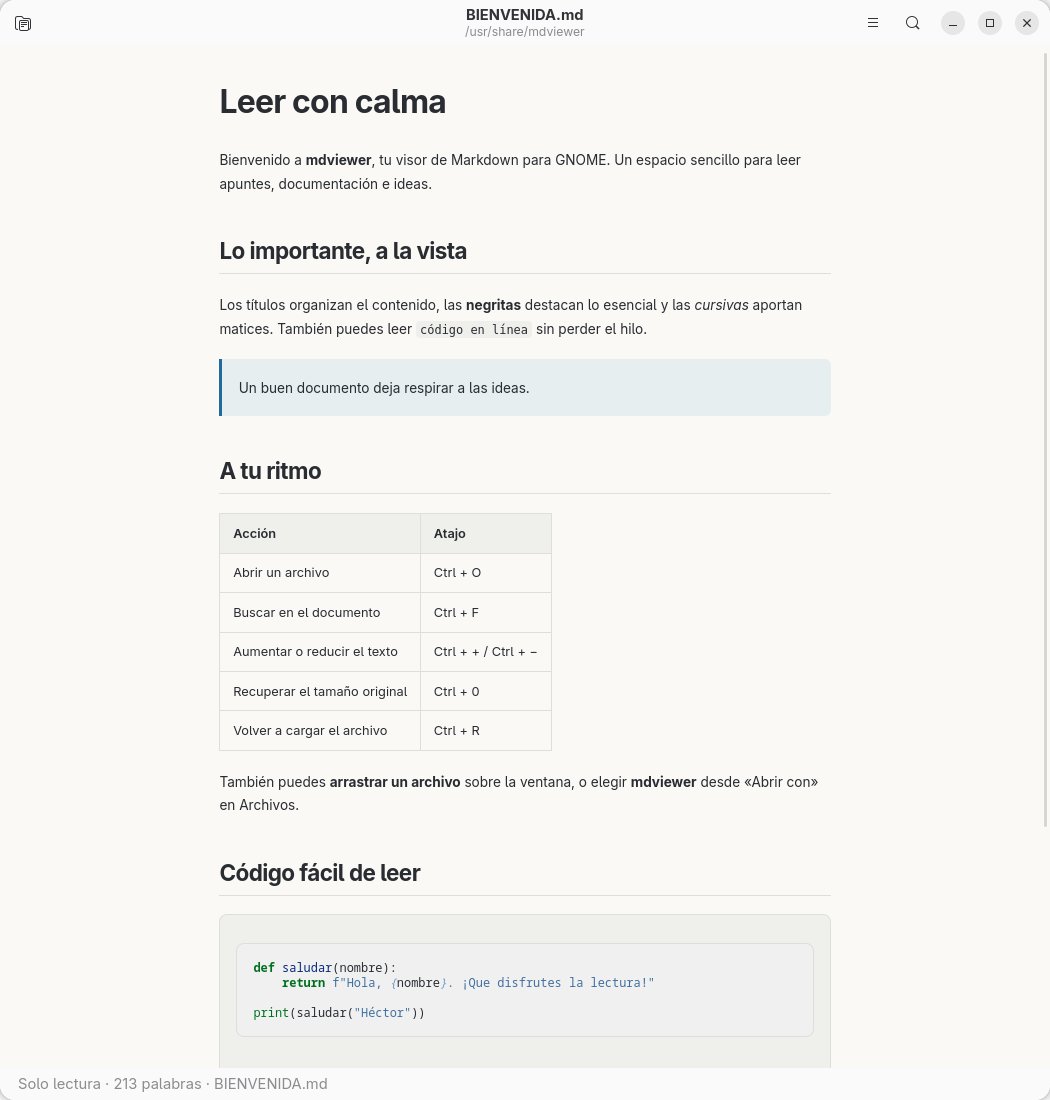
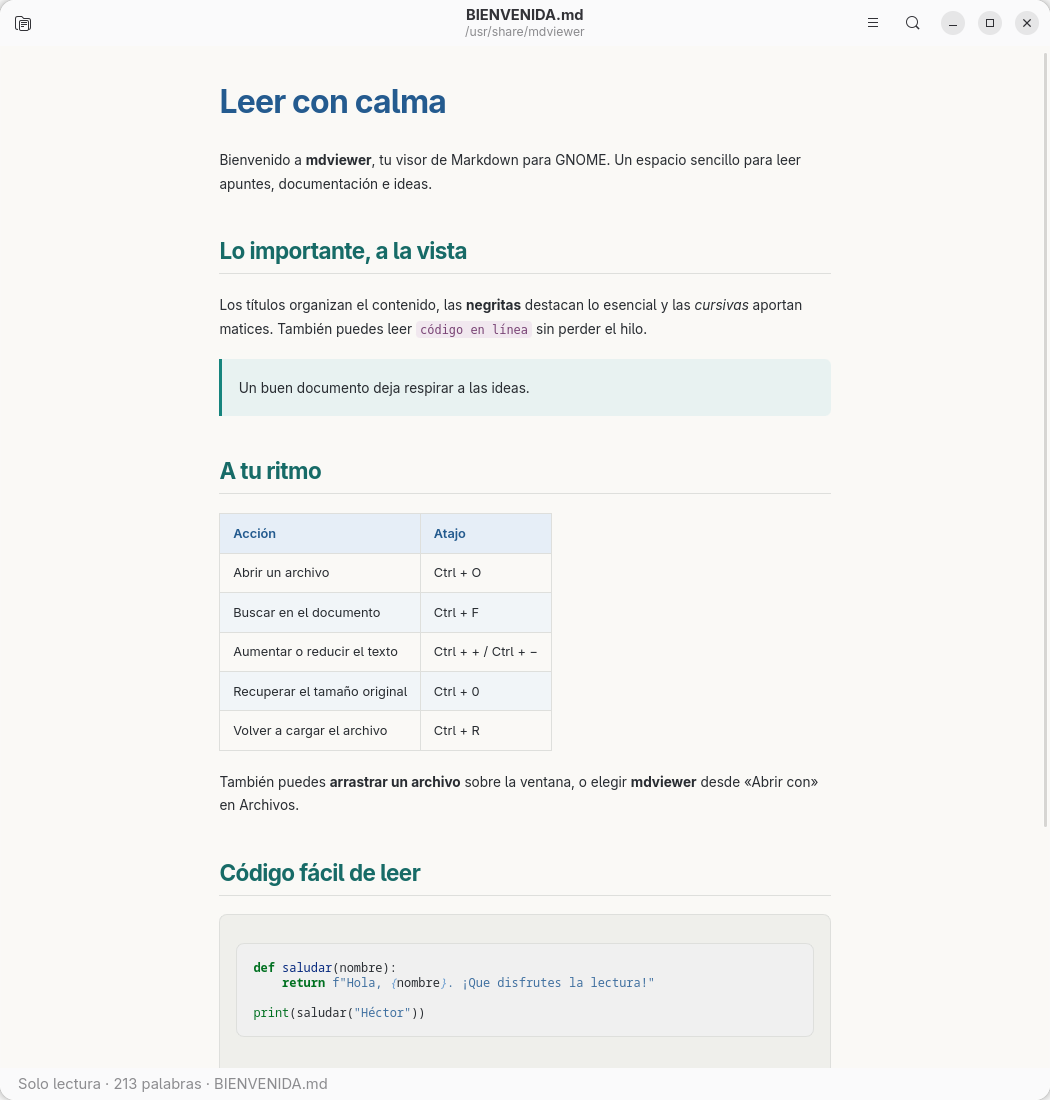
Añadir una paleta de color para los temas claro y oscuro en 0.1.2

diff --git a/style.css b/style.css
@@ -1,27 +1,29 @@
-:root { color-scheme: light; --bg: #faf9f6; --fg: #292d32; --muted: #626a73; --line: #dedfdc; --panel: #efefeb; --link: #206b9b; --quote: #e6eef0; }
-:root.dark { color-scheme: dark; --bg: #202326; --fg: #e5e6e1; --muted: #a9b0b6; --line: #43484d; --panel: #2b3035; --link: #87c5ed; --quote: #283940; }
+:root { color-scheme: light; --bg: #faf9f6; --fg: #292d32; --muted: #626a73; --line: #dedfdc; --panel: #efefeb; --link: #206b9b; --quote: #e8f2f1; --title: #245b8f; --heading: #176b67; --accent: #16847d; --code: #794475; --code-bg: #f1e8ef; --table-head: #e6eef7; --table-stripe: #f1f5f8; }
+:root.dark { color-scheme: dark; --bg: #202326; --fg: #e5e6e1; --muted: #a9b0b6; --line: #43484d; --panel: #2b3035; --link: #87c5ed; --quote: #253837; --title: #91c4f2; --heading: #83cec4; --accent: #64bdb3; --code: #ddb0d5; --code-bg: #3b2e3c; --table-head: #293b4e; --table-stripe: #262d34; }
 * { box-sizing: border-box; }
 html { background: var(--bg); color: var(--fg); }
 body { margin: 0; font: 17px/1.75 "Adwaita Sans", "Cantarell", sans-serif; overflow-wrap: anywhere; }
 main { max-width: 860px; margin: 0 auto; padding: 44px 48px 90px; }
 h1, h2, h3, h4, h5, h6 { line-height: 1.3; font-weight: 700; letter-spacing: -.025em; scroll-margin-top: 24px; }
-h1 { font-size: 2.35em; margin: 0 0 .8em; }
-h2 { font-size: 1.65em; margin-top: 1.8em; border-bottom: 1px solid var(--line); padding-bottom: .35em; }
+h1 { color: var(--title); font-size: 2.35em; margin: 0 0 .8em; }
+h2 { color: var(--heading); font-size: 1.65em; margin-top: 1.8em; border-bottom: 1px solid var(--line); padding-bottom: .35em; }
+h3, h4, h5, h6 { color: var(--heading); }
 h3 { font-size: 1.25em; margin-top: 1.6em; }
 p, ul, ol { margin: 1em 0; }
 li { padding-left: .2em; }
 li + li { margin-top: .3em; }
 a { color: var(--link); text-decoration-thickness: 1px; text-underline-offset: 3px; }
-blockquote { margin: 1.4em 0; padding: .2em 1.2em; border-left: 4px solid var(--link); border-radius: 0 8px 8px 0; background: var(--quote); }
+blockquote { margin: 1.4em 0; padding: .2em 1.2em; border-left: 4px solid var(--accent); border-radius: 0 8px 8px 0; background: var(--quote); }
 code { font-family: "JetBrains Mono", "DejaVu Sans Mono", monospace; font-size: .88em; }
-:not(pre) > code { background: var(--panel); border-radius: 5px; padding: .15em .35em; }
+:not(pre) > code { color: var(--code); background: var(--code-bg); border-radius: 5px; padding: .15em .35em; }
 pre { padding: 20px; overflow: auto; border: 1px solid var(--line); border-radius: 10px; line-height: 1.6; background: var(--panel); overflow-wrap: normal; }
 .highlight { border-radius: 10px; }
 .highlight pre { background: transparent; }
 table { display: block; overflow-x: auto; border-collapse: collapse; margin: 1.5em 0; font-size: .94em; }
 th, td { border: 1px solid var(--line); text-align: left; padding: 10px 16px; }
-th { background: var(--panel); font-weight: 650; }
+th { color: var(--title); background: var(--table-head); font-weight: 650; }
+tbody tr:nth-child(even) { background: var(--table-stripe); }
 img { max-width: 100%; height: auto; border-radius: 8px; }
 hr { border: 0; border-top: 1px solid var(--line); margin: 2em 0; }
 ::selection { background: #78b8d766; }
-@media (max-width: 600px) { main { padding: 26px 22px 60px; } body { font-size: 16px; } h1 { font-size: 1.9em; } }
+@media (max-width: 600px) { main { padding: 26px 22px 60px; } body { font-size: 16px; } h1 { color: var(--title); font-size: 1.9em; } }

diff --git a/README.md b/README.md
@@ -18,6 +18,7 @@ Capturas reales de mdviewer en GNOME, con el documento de bienvenida y zoom al 8
 
 ## Funciones
 
+- Paleta azul, turquesa y ciruela adaptada por separado a los temas claro y oscuro.
 - Apertura de archivos, arrastrar y soltar y varias ventanas.
 - Tablas, listas, citas, tachado y código resaltado con Pygments.
 - Imágenes locales y enlaces entre documentos Markdown.
@@ -40,13 +41,13 @@ Los paquetes DEB y RPM son `all` / `noarch`: contienen Python y recursos, sin bi
 ### Debian y Ubuntu
 
 ```sh
-sudo apt install ./mdviewer_0.1.1-1_all.deb
+sudo apt install ./mdviewer_0.1.2-1_all.deb
 ```
 
 ### Fedora
 
 ```sh
-sudo dnf install ./mdviewer-0.1.1-1.fc44.noarch.rpm
+sudo dnf install ./mdviewer-0.1.2-1.fc44.noarch.rpm
 ```
 
 El RPM se prepara para Fedora. No se anuncia compatibilidad con openSUSE, RHEL o derivados: los nombres y versiones de sus dependencias pueden ser diferentes. Debian 12 y Ubuntu 22.04 tampoco son objetivos de esta versión: se necesitan GTK 4.10+, libadwaita 1.4+ y WebKitGTK 6.
